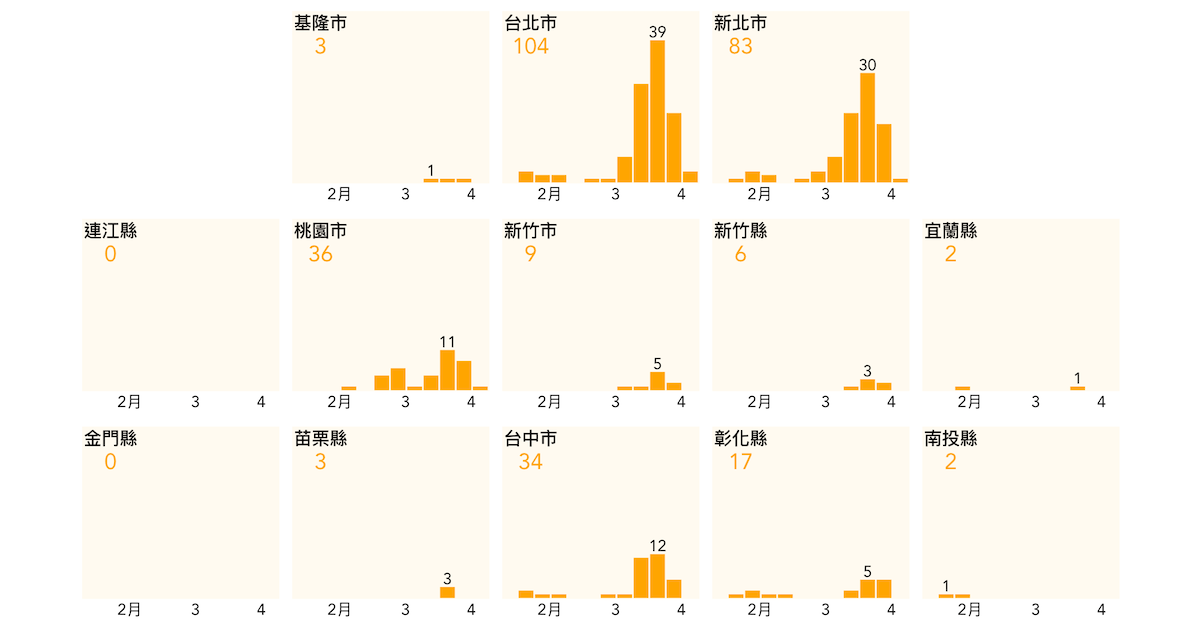
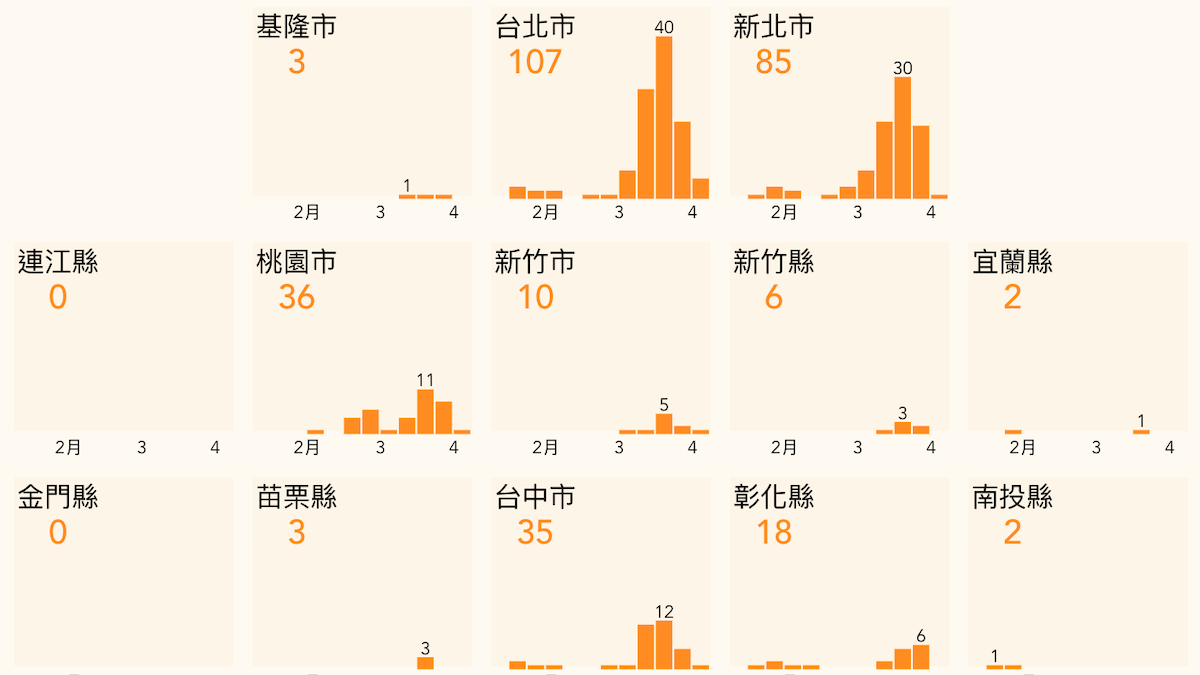
modify visual style and layout

diff --git a/src/App.vue b/src/App.vue
@@ -1,19 +1,13 @@
 <template>
   <div id="app">
     <div id="header">
-      <h1 class="title">新冠肺炎各縣市每週發病病例</h1>
-      <p>
+      <h2 class="title">新冠肺炎各縣市每週發病病例</h2>
+      <!-- <p>
         新冠肺炎疫情持續延燒，截至{{ updateDate }}台灣已經有<span
           class="totalCase"
           >{{ twTotalCase }}</span
         >例。各縣市疫情曲線是向上發展還是維持平穩，儀表板報給你知。
-      </p>
-      <span class="credit"
-        >製作：<a href="https://www.facebook.com/imDataMan/" target="_blank"
-          >林佳賢</a
-        ><a href="https://github.com/imdataman" target="_blank"
-          ><img src="@/assets/GitHub-Mark-32px.png"/></a
-      ></span>
+      </p> -->
       <span class="updateTime">更新時間：2020月{{ updateDate }}</span>
     </div>
     <Chart :json="json" />
@@ -24,10 +18,14 @@
         >
       </span>
       <span class="sourceCode"
-        ><a href="https://github.com/imdataman/tw-county-square" target="_blank"
-          >網頁原始碼</a
-        ></span
-      >
+        ><span class="credit"
+          >製作：<a href="https://www.facebook.com/imDataMan/" target="_blank"
+            >林佳賢</a
+          ><a
+            href="https://github.com/imdataman/tw-county-square"
+            target="_blank"
+            ><img src="@/assets/GitHub-Mark-32px.png"/></a></span
+      ></span>
     </div>
   </div>
 </template>
@@ -53,13 +51,28 @@ export default {
     twTotalCase() {
       return this.json.map(d => +d["確定病例數"]).reduce((a, b) => a + b);
     }
+  },
+  created() {
+    document.querySelector("body").classList.add("bodyStyle");
+  },
+  destroyed() {
+    document.querySelector("body").classList.remove("bodyStyle");
   }
 };
 </script>
 
-<style scoped lang="scss">
-body {
+<style>
+.bodyStyle {
   margin: 0;
+  background-color: floralwhite;
+}
+</style>
+
+<style scoped lang="scss">
+$feature-color: darkorange;
+
+h2 {
+  margin: 0.75rem 0;
 }
 
 a {
@@ -68,7 +81,7 @@ a {
 }
 
 a:hover {
-  color: orange;
+  color: $feature-color;
 }
 
 #app {
@@ -85,16 +98,12 @@ a:hover {
 }
 
 #footer {
-  padding-bottom: 20px;
-}
-
-.updateTime {
-  padding-left: 2rem;
+  padding-bottom: 10px;
 }
 
 .totalCase {
   color: white;
-  background-color: orange;
+  background-color: $feature-color;
   padding: 0 5px;
   margin: 0 2px;
   border-radius: 4px;

diff --git a/src/components/Chart.vue b/src/components/Chart.vue
@@ -165,6 +165,8 @@ export default {
 </script>
 
 <style scoped lang="scss">
+$feature-color: darkorange;
+
 #chartWrapper {
   padding-top: 20px;
   display: flex;
@@ -194,7 +196,7 @@ export default {
     .totalCase {
       font-weight: 500;
       line-height: 1.25rem;
-      color: orange;
+      color: $feature-color;
       font-size: 1.25rem;
     }
   }
@@ -212,7 +214,7 @@ export default {
       font-size: 0.75rem;
     }
     .caseBar {
-      fill: orange;
+      fill: $feature-color;
     }
   }
 }
@@ -230,7 +232,7 @@ export default {
   }
   svg {
     .background {
-      fill: floralwhite;
+      fill: oldlace;
     }
     text {
       display: initial;
